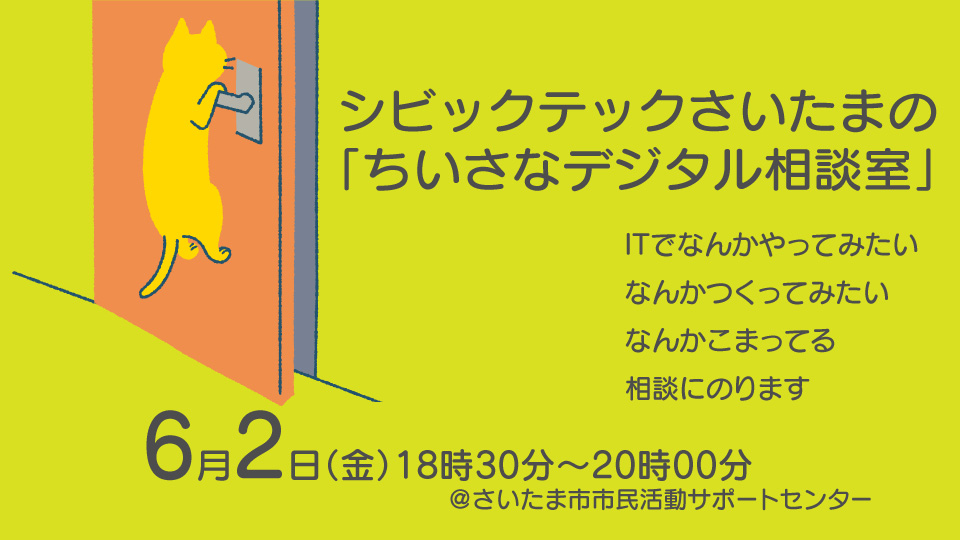
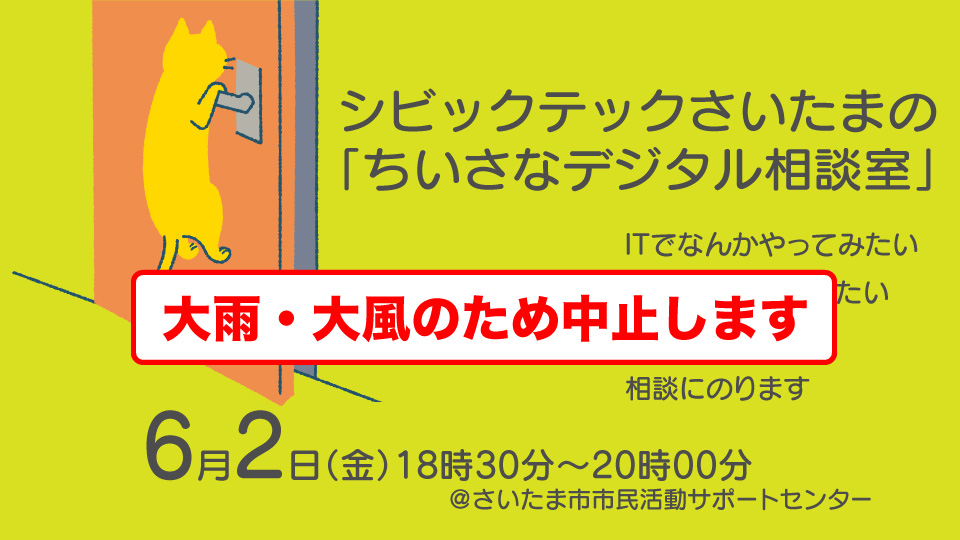
イベント中止＆追加

Changed region(s): [[0.125, 0.4741, 0.875, 0.6815]]

diff --git a/content/data/20230616-small-digital-consult.md b/content/data/20230616-small-digital-consult.md
@@ -1,0 +1,7 @@
+---
+title: 台風・大雨のため、6/2の「ちいさなデジタル相談室」は中止しました。次回は6/16に開催します。
+date: 2023-06-03
+eventDate: 2023-06-16
+link: https://www.facebook.com/events/299925499033157/
+thumb: /images/20230616-small-digital-consult.jpg
+---
